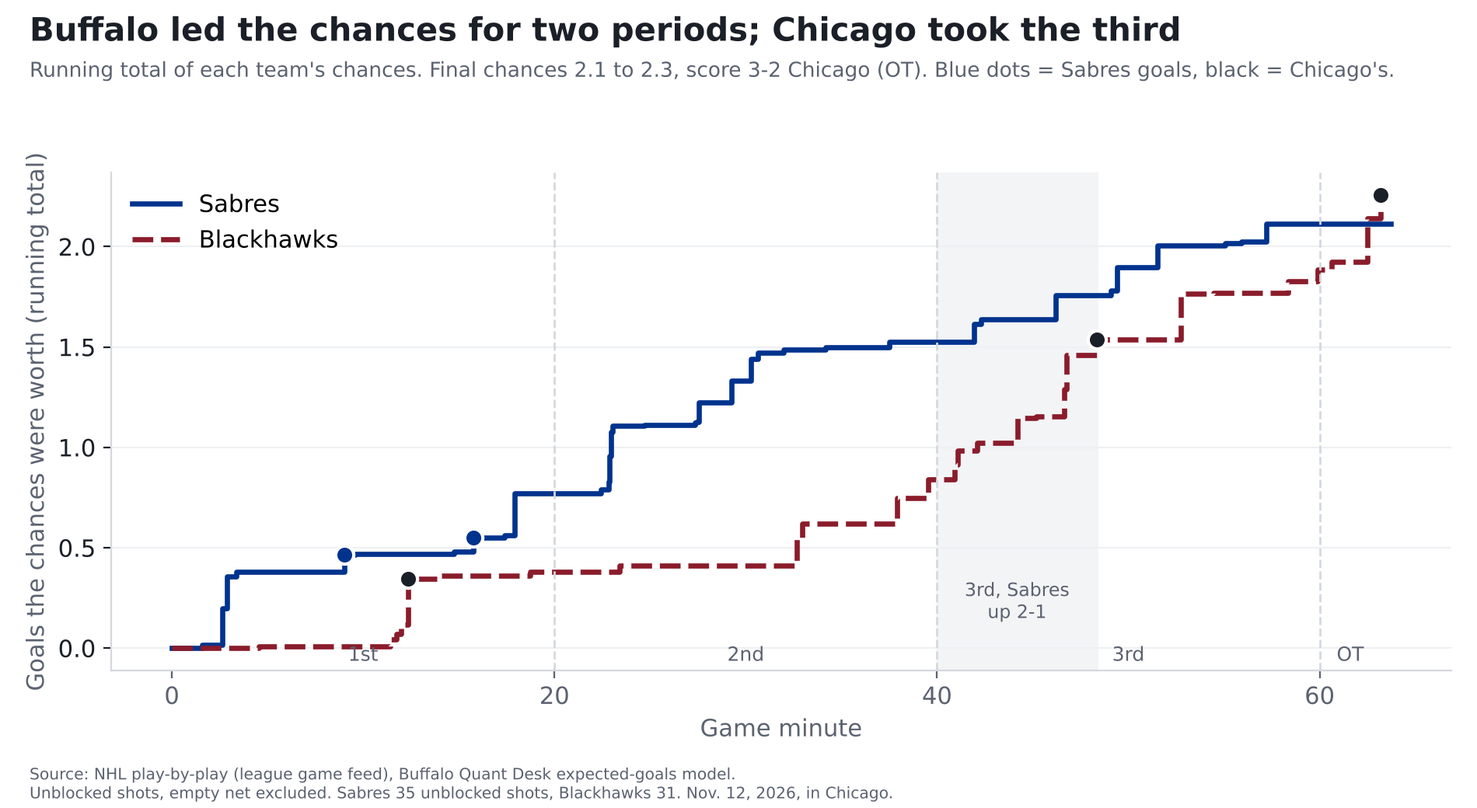
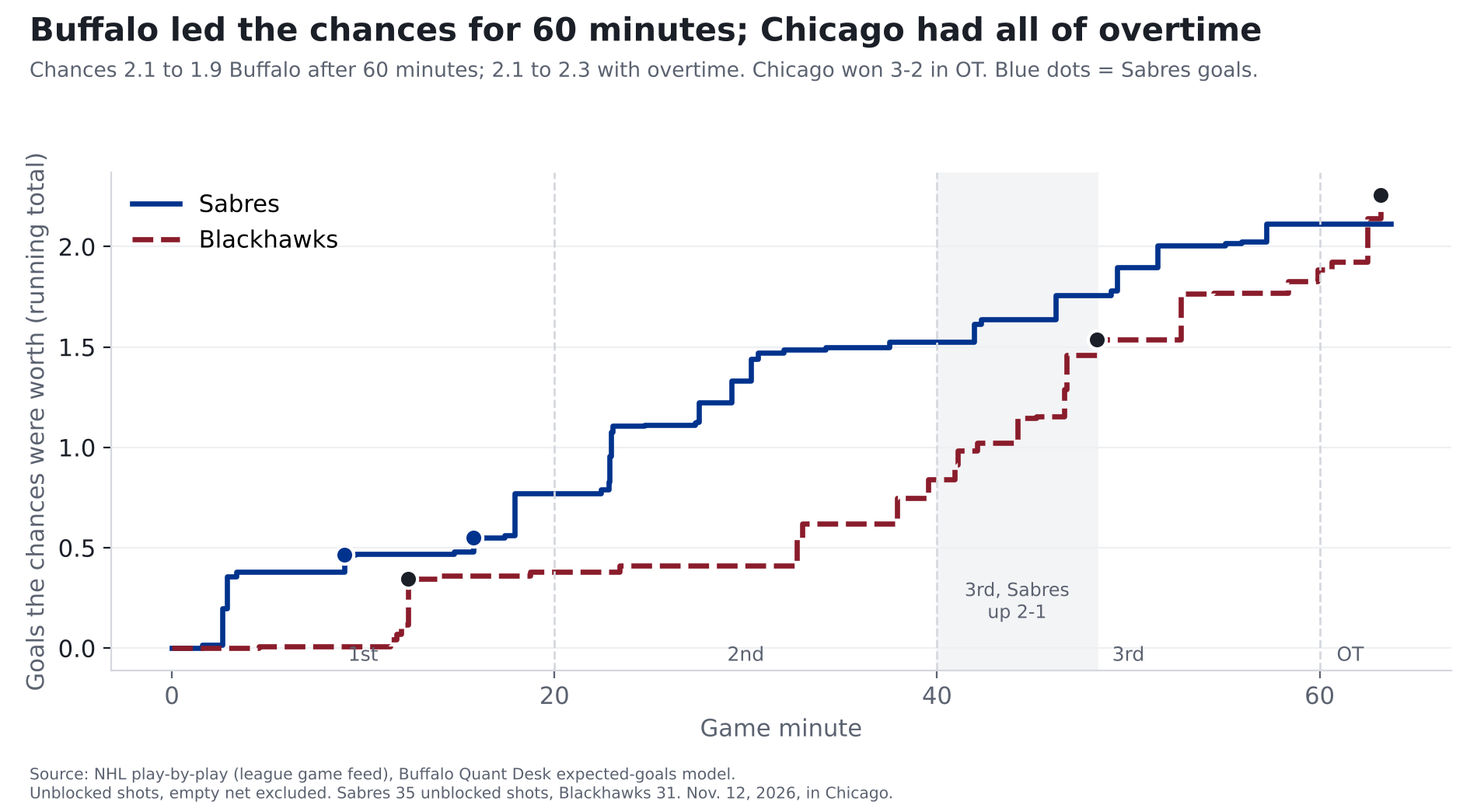
Sabres-Chicago post-game: round-2 review fixes
Claude-Session: https://claude.ai/code/session_01EpbAX7fMNT8LnsxAN6UoCp

Changed region(s): [[0.0311, 0.0, 0.9316, 0.0923]]

diff --git a/src/reports/sabres_postgame_chi.py b/src/reports/sabres_postgame_chi.py
@@ -170,8 +170,8 @@ def main(as_of=AS_OF):
     ax.set_xticks([0, 20, 40, 60], ["0", "20", "40", "60"])
     ax.set_xlabel("Game minute"); ax.set_ylabel("Goals the chances were worth (running total)")
     ax.legend(frameon=False, loc="upper left"); ax.grid(axis="y", color="#EEF0F3"); ax.set_axisbelow(True)
-    finish(fig, "Buffalo led the chances for two periods; Chicago took the third",
-           f"Running total of each team's chances. Final chances {f.xg.sum():.1f} to {a.xg.sum():.1f}, score {them_sc}-{us_sc} Chicago (OT). Blue dots = Sabres goals, black = Chicago's.",
+    finish(fig, "Buffalo led the chances for 60 minutes; Chicago had all of overtime",
+           f"Chances {reg_f:.1f} to {reg_a:.1f} Buffalo after 60 minutes; {f.xg.sum():.1f} to {a.xg.sum():.1f} with overtime. Chicago won {them_sc}-{us_sc} in OT. Blue dots = Sabres goals.",
            f"Unblocked shots, empty net excluded. Sabres {len(f)} unblocked shots, Blackhawks {len(a)}. Nov. 12, 2026, in Chicago.")
     fig.savefig(OUT / "sabres-chi-post-flow.png"); plt.close(fig)
 
@@ -199,10 +199,10 @@ def main(as_of=AS_OF):
         f"{', rebound' if r.rebound else ''}{', power play' if r.strength in ('5v4', '5v3', '4v3') else ''}{', 3-on-3' if r.strength == '3v3' else ''} | {r.xg:.0%} | "
         f"{int(r.us_g + (r.team == US))}-{int(r.them_g + (r.team == THEM))} |" for r in gl.itertuples())
     tie_left = 1200 - int(tie_goal.t) % 1200
-    md = f"""# Blackhawks {them_sc}, Sabres {us_sc} (OT): Buffalo had more of the chances and still lost
+    md = f"""# Blackhawks {them_sc}, Sabres {us_sc} (OT): Buffalo had more of the chances for 60 minutes and still lost
 
 **Finding: Over 60 minutes, the Sabres' chances were worth {reg_f:.1f} goals to Chicago's {reg_a:.1f}, and they led 2-1 into the third. Chicago tied it with
-{clock(tie_left)} left and won {clock(ot_goal.t)} into overtime. That's the pattern from our pregame story: road teams on the second night of a back-to-back lose more
+{clock(tie_left)} left and won {clock(ot_goal.t)} into overtime. That fits the pattern from our pregame story: road teams on the second night of a back-to-back lose more
 often than their chances say. One game can't prove it. Our {PRED_P:.0%} call for a Buffalo win is a miss.**
 
 *One game, Nov. 12, in Chicago, the second night of a back-to-back for Buffalo. [Our pregame story](sabres-blackhawks-pregame-nov-12.html).*
@@ -226,14 +226,15 @@ Shots counted here are the ones that weren't blocked, not counting empty nets.
 
 Our pregame story said to watch the first period, because tired road teams usually start a little behind. Buffalo didn't: it had {buf_share[1]:.0%} of the chances in
 the first and {buf_share[2]:.0%} in the second. In regulation the chances came out {reg_f:.1f} to {reg_a:.1f} Buffalo. Replay those 60 minutes over and over, with each shot going
-in or missing at its own chance, and Buffalo wins {p_win:.0%} of the time and Chicago {p_loss:.0%}; the other {p_tie:.0%}, it's tied after 60. It was tied, and overtime
+in or missing at its own chance, and Buffalo wins {p_win:.0%} of the time and Chicago {p_loss:.0%}; the other {p_tie:.0%}, it's tied after 60. That's what happened: 2-2 after 60, and overtime
 belonged to Chicago: {nper.loc[4, THEM]} shots to none.
 
 ## How we measure "chances"
 
 Every shot has a chance of going in, based on where it was taken and what kind of shot it was. Frank Nazar's first goal, from {gl.iloc[1].dist:.0f} feet, had a
 {gl.iloc[1].xg:.0%} chance; Tage Thompson's power-play goal from {gl.iloc[2].dist:.0f} feet, about {gl.iloc[2].xg:.0%}. Add those chances up over a game and you get what a team's chances
-were worth in goals: all {len(a)} of Chicago's shots were worth {a.xg.sum():.1f}, and Chicago scored {them_sc}. The shot locations come from the NHL's own play-by-play. (The full
+were worth in goals: all {len(a)} of Chicago's shots, overtime included, were worth {a.xg.sum():.1f}, and Chicago scored {them_sc}. In regulation alone it was {reg_f:.1f} for Buffalo,
+{reg_a:.1f} for Chicago; Chicago's last {per.loc[4, THEM]:.1f} came in overtime. The shot locations come from the NHL's own play-by-play. (The full
 explanation is in our story on [last year's 50-win season](sabres-50-win-mirage.html).)
 
 ## The third period
@@ -243,12 +244,12 @@ that weren't blocked, worth {u1f:.1f} goals, and Chicago had {n_u1a}, worth {u1a
 usually gets about {lead1_share:.0%}, since the trailing team pushes. About {st_xg / u1a:.0%} of Chicago's chances in that stretch came on a power play or at 4-on-4.
 
 It's {n_u1f + n_u1a} shots in about eight minutes, and stretches like that swing a lot: across the NHL since 2023-24, about {low_frac:.0%} of teams up a goal in the same
-part of the third got {u1f / (u1f + u1a):.0%} of the chances or less ({n_lead1:,} games). After the tie, the chances were even until overtime.
+part of the third got {u1f / (u1f + u1a):.0%} of the chances or less ({n_lead1:,} teams in that spot). After the tie, the chances were even until overtime.
 
 ## The back-to-back
 
 Our pregame story found that road teams playing the second night in a row, against a rested home team, win less often, without falling far behind in the chances.
-Thursday looked like that: Buffalo had more of the chances in regulation and still lost. One game doesn't confirm it, and we still don't know why it happens.
+Thursday fit that: Buffalo had more of the chances in regulation and still lost. One game doesn't confirm it, and we still don't know why it happens.
 
 It's not that tired teams fade late. Split their chances by period ({ngames['tired']} games since 2023-24, not counting Thursday's), and they're a little behind all game,
 not more in the third:

diff --git a/reports/reviews/2026-11-13-sabres-chi-editor.md b/reports/reviews/2026-11-13-sabres-chi-editor.md
@@ -1,56 +1,45 @@
-# Editor review: 2026-11-13-sabres-chi.md (Blackhawks 3, Sabres 2, OT)
+# Editor re-review: 2026-11-13-sabres-chi.md (sha256 a9ede8f1580a...)
 
-**One-sentence version (radio):** "Buffalo outplayed Chicago for two periods, then sat back on a 2-1 lead in the third, got a quarter of the chances while a team up a goal usually gets about 42%, and lost in overtime."
+**One-sentence version (radio):** "On tired legs, Buffalo had the better of Chicago for 60 minutes, 2.1 to 1.9 in chances, and still lost in overtime, which fits what we've seen from teams on the second night of a back-to-back."
 
-**Verdict: needs edits (FAIL until fixes 1-4 are in).** The lead is right, the headline works, the third-period comparison (25% vs. 42%) is a great radio number, and both charts read in five seconds. Four problems: the story never explains how "chances" are measured (standing rule), the back-to-back follow-up overclaims "not tired legs" and skips the goalie connection the pregame set up, the whole-game paragraph contradicts itself (Chicago had more chances but Buffalo wins more replays), and "did what the numbers said they should" conflicts with the model numbers later in the story.
+**Verdict: needs edits (FAIL). Three small wording fixes, no new numbers.** The rewrite is much better: the new angle fits the pregame, the back-to-back section is honest ("we still don't know why"), the third-period section now says plainly that a stretch like that is ordinary, the chances explanation is there with real examples, the one-decimal tables read cleanly, and the backup-goalie link is made and then properly qualified. My earlier fixes are all in.
 
-## Required edits, most important first
+What's left is one clarity problem that also bears on honesty. The headline says Buffalo "had more of the chances", but the story, the flow chart and the stat-heads section all show Chicago ahead 2.3 to 2.1 once overtime is counted. A fan who reads "Chicago's shots were worth 2.3" or the chart subtitle "Final chances 2.1 to 2.3" will think the headline is wrong. The claim is true only for regulation, so it has to say so everywhere it appears.
 
-### 1. Add the "how we measure chances" explanation (standing rule: show the reasoning every time)
-Both earlier Sabres stories have it. This one has none, though "chances" carries every headline number. Insert after the scorer table and before "Over the whole game it was close to even":
+## Required
 
-> ## How we measure "chances"
->
-> Every shot has a chance of going in, based on where it was taken and what kind of shot it was. Add those up and you get what a team's chances were worth in goals. Thursday shows the range: Frank Nazar's first goal, from 5 feet on the power play, had a 23% chance of going in; Tage Thompson's power-play goal from 29 feet had 7%. Add up all 31 of Chicago's shots that weren't blocked and they were worth 2.3 goals. Chicago scored 3. The shot locations come from the NHL's own play-by-play. (The full explanation, and how we tested it, is in our story on [last year's 50-win season](sabres-50-win-mirage.html).)
+1. **Headline.** Replace
+   `# Blackhawks 3, Sabres 2 (OT): Buffalo had more of the chances and still lost`
+   with
+   `# Blackhawks 3, Sabres 2 (OT): Buffalo had more of the chances for 60 minutes and still lost`
+   (The dek and hero already say "over 60 minutes" / "in regulation", so this brings the headline into line.)
 
-All numbers are already in the story (scorer table, game table). No new computation.
+2. **"How we measure chances" section.** Replace
+   `all 31 of Chicago's shots were worth 2.3, and Chicago scored 3.`
+   with
+   `all 31 of Chicago's shots, overtime included, were worth 2.3, and Chicago scored 3. In regulation alone it was 2.1 for Buffalo, 1.9 for Chicago; Chicago's last 0.4 came in overtime.`
+   (All numbers are already in the story.)
 
-### 2. Make the back-to-back follow-up honest (story body, dek, hero card)
-The pregame said tired road teams *win* less often, that the model misses it, and that **the drop doesn't show up in chances** ("Tired road teams still got about 47% of the chances... Where the drop comes from is less clear"). So "chances by period don't fade late" can't rule out tiredness; it only rules out one version of it (running out of gas in the third). The pregame also pointed at goalies (usual starter in net only 37% of the time on tired nights), and that's exactly what happened: Buffalo's third goalie, first game of the season. The wrap should say so.
+3. **Flow chart subtitle (the chart under the headline).** Replace
+   `Final chances 2.1 to 2.3, score 3-2 Chicago (OT).`
+   with
+   `Chances 2.1 to 1.9 Buffalo after 60 minutes; 2.1 to 2.3 with overtime. Chicago won 3-2 in OT.`
+   Optional title as the takeaway: `Buffalo led the chances for 60 minutes; Chicago had all of overtime`. The current title, "Chicago took the third", is accurate but no longer the story's point.
 
-- Replace `The easy story is that Buffalo ran out of gas on the second night of a back-to-back. The numbers don't back that up.`
-  with `The easy story is that Buffalo ran out of gas on the second night of a back-to-back. The third period doesn't look like that.`
-- Replace `The score explains Thursday's third period better than the schedule does.`
-  with `The score explains Thursday's third period better than the schedule does. That doesn't mean the back-to-back didn't matter. Our pregame story found that tired road teams lose more often without falling much behind in chances, and we still don't know why. One thing it did flag: tired teams often play a backup in goal. Buffalo did.`
-- In "In goal", replace `Alex Lyon started for Buffalo after both of the Sabres' regular goalies played in Wednesday's 8-3 loss to Tampa Bay.`
-  with `Alex Lyon started for Buffalo after both of the Sabres' regular goalies played in Wednesday's 8-3 loss to Tampa Bay. That's the back-to-back at work: in our pregame look, tired road teams had their usual starter in net only 37% of the time.` (37% is from the pregame; Quant to confirm it's fine to repeat.)
-- Dek (`src/site/build.py`, slug sabres-blackhawks-postgame-nov-12): replace `It wasn't the usual tired-legs pattern.`
-  with `It didn't look like the usual back-to-back pattern, which shows up early, not late.`
-- Hero card `explainer.kicker`: replace `"Not the legs"` with `"Not a late fade"`.
-- Hero card bars only show the 1st period, so the title "trail most early, not late" can't be read from them. Replace the explainer `text` and `bars` with
-  `"text": "Tired road teams' share of the chances, since 2023-24:"`, bars `["1st period", 0.457]`, `["3rd period", 0.482]`. (Both numbers are in the stat-heads section.)
+4. **Lead, don't overclaim the pattern.** Regulation ended 2-2 on chances of 2.1 to 1.9, which is about what the chances predicted, and the loss came in overtime. "That's the pattern" is stronger than one coin-flip overtime supports, and a radio host would repeat it as fact. Replace
+   `That's the pattern from our pregame story:`
+   with
+   `That fits the pattern from our pregame story:`
+   ("One game can't prove it" stays.) In "The back-to-back", replace `Thursday looked like that:` with `Thursday fit that:`.
 
-### 3. Fix the whole-game paragraph (reads as a contradiction)
-Replace `Over the whole game it was close to even: Buffalo's chances were worth 2.1 goals, Chicago's 2.3. Replay the 60 minutes over and over,`
-with `Over the whole game it was close to even: Buffalo's chances were worth 2.1 goals, Chicago's 2.3, but Chicago's last 0.4 came in overtime. Over the 60 minutes of regulation, Buffalo had the edge. Replay those 60 minutes over and over,`
-A fan sees "Chicago had more chances" followed by "Buffalo wins 44%, Chicago 35%" and thinks it's a mistake. The overtime 0.37 is in the period table; the writer should state the regulation totals (needs a computed number, about 2.1 to 1.9; writer computes, don't hand-add rounded table values).
+## Should-fix (optional)
 
-### 4. Fix a claim that conflicts with the story's own numbers
-"What it means" says `For two periods they did what the numbers said they should against the league's weakest team at creating chances.` But Receipts says the model expected 3.45 goals' worth of chances for Buffalo and the game came in at 2.1. Buffalo won the share but created far less than expected.
-Replace with `For two periods they had the better of the team that creates the fewest chances in the league, as expected, though both teams created less than our model thought.`
-And give the Receipts sentence a "so what": replace `the game came in well below both, at 2.1 and 2.3.` with `the game came in well below both, at 2.1 and 2.3: a low-chance game, which is part of why one tip-in and one overtime shot could decide it.`
+5. In "How it went", `It was tied, and overtime belonged to Chicago: 3 shots to none.` reads as if "it was tied" refers to the 21%. Replace it with `That's what happened: 2-2 after 60. Overtime belonged to Chicago, 3 shots to none.`
+6. In "What it means", `The third-period stretch is one to watch, not a trend yet.` The story now shows that about 1 in 3 leading teams has a stretch like this, so "one to watch" oversells it a little. Suggest `The third-period stretch was ordinary bad luck-and-pressure, not a trend.` or keep it as is with "not a trend yet". This one is Charlie's call.
+7. Periods chart: readable in five seconds, and the colors are now right (Buffalo blue). With the new angle, though, the general title ("Tired road teams are a little behind all game. They don't fade late") leaves Buffalo's bars, the most striking thing on the chart, unexplained. Optional: `Tired road teams don't fade late, and Buffalo didn't fade from fatigue: it led two periods, then sat on a lead`. Or keep it, since the body explains it.
 
-## Should-fix
+## Checked and fine
 
-5. **Follow up the pregame's "what to watch."** The pregame said: "The first period... If Buffalo's legs are there early, the Sabres should be the team with the puck." They were (67% of first-period chances). That's a satisfying receipt. Add to "Was it tired legs?" after `Buffalo did the opposite: 67% of the chances in the first, 36% in the third.`: `Our pregame said to watch the first period for tired legs. They weren't there.`
-6. **Shorten the lead.** Five sentences in bold is a lot. Replace `The Sabres had the better of Chicago for 40 minutes: their chances were worth 1.5 goals to Chicago's 0.8, and they led 2-1 going into the third. Then Chicago took over.` with `The Sabres had the better of Chicago for 40 minutes, with chances worth 1.5 goals to Chicago's 0.8, and led 2-1. Then they sat on the lead.` (Drop "Finding:" label? Keep for consistency with the TBL wrap; Charlie's call.)
-7. **Two-decimal numbers look like stats.** The period table (0.77, 0.38...), "worth 0.23 goals ... 0.69", and "(0.36 to 0.35)" read like a spreadsheet. Suggest one decimal in the body (0.8, 0.4, ...; "0.2 goals ... 0.7"), as the TBL wrap does; keep two decimals in stat-heads. Writer reruns so rounding comes from code. "0.36 to 0.35" can simply become "about even".
-8. **"Scored the usual way (the gap between our chance and what happened, squared; lower is better), it comes to 0.32"** is fine and matches the prior wrap. Keep.
-
-## Charts
-
-- **Flow chart:** reads in five seconds, title is the takeaway, shaded "3rd, Sabres up 2-1" band is excellent. One fix: Sabres goals are *red* dots while the Blackhawks line is dark red, so a fan links red dots to Chicago. Make Sabres goal dots blue (match the Sabres line) and Chicago's black, and change the subtitle to "Dots = goals, in each team's color."
-- **Periods chart:** title is the takeaway and works. Minor: Buffalo is red and "tired road teams" is Bills/Sabres blue; swap so the Sabres bar is blue and tired road teams another color (e.g. dark gray), since fans read blue as Buffalo. If fix 2 is applied, consider softening the title to "Tired road teams don't fade late. Buffalo did" (same meaning, matches the new body).
-
-## Fine as is
-Headline; scorer table (great plain "chance it went in" column); "It's 11 shots in about eight minutes, so it's one stretch of one game, not a trend"; goalie section length; Receipts owning the miss and not hiding behind the back-to-back warning ("the 57% is what we logged and what gets graded"). No jargon in the body; "3-on-3", "power play", "tip-in" are fine for hockey readers. Length is right.
+- Hero: label "Chances in regulation, in goals" (2.1 vs 1.9), the note, kicker "The back-to-back", and bars 38% vs 47% match the pregame's 38%/47%. Title "lose more often than their chances say" is the pregame finding. Clear.
+- Dek: "more of the chances over 60 minutes ... the pattern our pregame flagged". Fine. If fix 4 is applied, consider "the pattern our pregame flagged" → "fitting the pattern our pregame flagged", but it's acceptable as is.
+- No jargon in the body. "4-on-4", "3-on-3" and "power play" are fine for hockey readers. Receipts owns the miss. Length and flow are good.

diff --git a/reports/reviews/2026-11-13-sabres-chi-quant.md b/reports/reviews/2026-11-13-sabres-chi-quant.md
@@ -1,69 +1,52 @@
-# Quant review: reports/2026-11-13-sabres-chi.md (CHI 3, BUF 2 OT, Nov 12, 2026)
+# Quant re-check: reports/2026-11-13-sabres-chi.md (sha256 a9ede8f1580a...)
 
-**Verdict: FAIL (publish with fixes).** The game numbers are all correct. The lede's league comparison (42%) is not like-for-like, and the tired-legs section overstates what a by-period split can show.
+**Verdict: FAIL. Two small fixes are needed, then it passes.** All five stage-2 fixes landed correctly. The rewrite introduced one factual error, in the headline.
 
-Scratch code (read-only DB, rescaled per season, factor 2026-27 = 0.9922): /tmp/qchk/a.py, b.py, c.py, d.py.
+## Required fixes
 
-## Required fixes, most important first
+1. **The headline is false for the full game.** It reads "Buffalo had more of the chances and still lost", but over the full game Chicago had more: 2.26 to 2.11, counting overtime.
+   The story itself says so in three places:
+   - the flow chart subtitle ("Final chances 2.1 to 2.3")
+   - "How we measure" ("all 31 of Chicago's shots were worth 2.3")
+   - the stat-heads section (CHI 2.26)
 
-1. **"teams up a goal in the third usually get 42%" (Finding, The third period, hero note context, dek wording "with the lead").**
-   0.417 (2,841 games) reproduces exactly, but it pools the whole third, including late extra-attacker time when the trailing team pulls its goalie.
-   Those 6-on-5 shots count for the trailing team, and the leader's empty-net shots are dropped. Buffalo's stretch (40:00 to 48:22) had no pulled goalie.
-   Like-for-like numbers:
-   - Up one, 3rd period, excluding 6vX: **0.460**
-   - Up one, first 8:22 of the 3rd (the same window as Buffalo's): **0.467**
-   - Up one, 5v5 only, first 8:22: 0.470
+   The hero and dek both say "over 60 minutes" and are fine.
+   Fix: "Buffalo had more of the chances in regulation and still lost" (or "over 60 minutes").
 
-   Fix: compare to about 47% ("teams up a goal early in the third usually get about 47%"), and define it in the stat-heads section.
+2. **"(2,319 games)" in the third-period section.** 2,319 is the number of times a team led by one in that window. Those come from **2,250 games**; a game can count twice when each team leads at different points. The stat-heads label ("2,319 game-leaders") is correct.
+   Fix the body: "(2,250 games)", or "2,319 teams in that spot".
 
-2. **"Buffalo sat back further than that" / headline "sat on a lead it couldn't keep": overclaim.**
-   - Part of Chicago's 0.69 came on special teams. Chicago 5v4: 0.14 (2 shots). 4v4: 0.12 (1 shot). Chicago 5v5: 0.43 (4 shots, including the tying goal).
-   - At 5v5, Buffalo's share in the stretch was **35%**, not 25%.
-   - Per game, 30.5% of teams leading by one in the first 8:22 of the 3rd got 25% or less in that window (2,251 games; median 46%). So 25% is ordinary for one stretch.
+## Stage-2 fixes: all landed
 
-   Fix: mention the Chicago power play at the start of the third. Drop "sat back further than that" and "sat on", or soften them to "got out-chanced". Keep the existing one-stretch caveat.
-   (Don't publish a penalty count; the CLAUDE.md caveat on penalty attribution applies. Strength states from situationCode are fine to cite.)
+- **League comparison.** Leader's share in the first 8:22 of the third, pulled-goalie strengths excluded: 0.4670, which matches "about 47%". Per leader: 2,319, with 31.52% at 25% or less, which matches "about 32%".
+- **Power play and 4-on-4.** 0.264 of Chicago's 0.693 is 38%. Buffalo's 3 shots were all 5-on-5, so its 5-on-5 share is 0.35. Matches.
+- **"Sat on" and "sat back further" are gone.** "One to watch, not a trend yet" is appropriately hedged.
+- **Tired-legs section.** "A little behind all game, not more in the third" matches 0.457/0.470/0.482 vs 0.478/0.485/0.488.
+  - The resampling ranges match mine within resampling noise (mine: P2 -3.0 to -0.1, P3 -2.0 to +0.9).
+  - The score-adjustment caveat is present.
+  - The chart title now reads "a little behind all game. They don't fade late". I looked at it and it's correct.
+- **The model comparison is now 60 minutes to 60 minutes.**
+  - The model's 3.45 and 2.97 vs regulation chances of 2.115 and 1.886, with a 2-2 score.
+  - "The edge went the way it expected" checks out (Buffalo ahead in both).
+  - The stat-heads section labels 3.45/2.97 as expected goals.
+- **Dallas is cut.**
 
-3. **Tired-legs section.** These numbers reproduce: tired P1/P2/P3 0.457/0.470/0.482, rested 0.478/0.485/0.488, 644 / 3,107 games. Three of its claims go beyond them:
-   - **"by the third they've nearly caught up" is largely a score effect.** Tired road teams trail more in the third: 49% of their third-period shots come while trailing, vs 43% for rested teams. Trailing teams get more of the chances.
-     Counting tied-score shots only: tired 0.442/0.474/0.462, rested 0.478/0.490/0.486. In the third the gap is still 2.3 pts (bootstrap 95% CI -5.6 to +1.0, 275 games), about the same as the first period's.
-     Fix: drop "nearly caught up". "They don't fade late" is supported (no drop in the third even at tied scores), so keep it.
-   - **"furthest behind in the first period" (body, chart title, hero kicker/title "trail most early, not late") is noise-level.**
-     Game-level bootstrap gaps (tired minus rested): P1 -2.1 pts (CI -3.4 to -0.7), P2 -1.5 (CI -3.0 to -0.1), P3 -0.6 (CI -2.0 to +0.9). P1 and P2 can't be told apart.
-     Fix: "Tired road teams are a little behind all game; they don't fade late." Retitle the chart and the hero explainer to match. The P1 bars can stay as the example.
-   - **"The score explains Thursday's third period better than the schedule does" isn't supported.** Score effects take an early-third leader from about 50% to about 47%. Neither score nor schedule explains 25%; a Chicago power play plus one-stretch noise does more.
-     Fix: "Neither the schedule nor the score explains much of it: part was a Chicago power play, and the rest is one stretch of one game."
+## New content checked
 
-4. **"The model expected chances worth 3.45 goals for Buffalo and 2.97 for Chicago; the game came in well below both, at 2.1 and 2.3."**
-   The 3.45/2.97 match P0010's notes. But they are the model's *expected goals* (the pregame story says "expects about 3.5 goals"; goals = -0.254 + 1.032 x expected + 0.272 x home, on the unrescaled scale). They are not chance values.
-   The 2.1/2.3 also include overtime (Chicago 0.37), while the model forecasts 60 minutes.
-   Fix: "The model expected about 3.5 goals for Buffalo and 3.0 for Chicago. Through 60 minutes the chances were worth 2.1 and 1.9, and the score was 2-2." (Regulation chances: BUF 2.115, CHI 1.886.) Or drop the comparison.
-
-5. **"Next up: Saturday at Dallas."** No query supports it; raw_nhl_games ends 2026-11-12. Verify it from a committed source or cut it.
-
-## Verified (all match)
-
-- **Per period** (xG, unblocked non-empty-net shots):
-
-  | Period | BUF | CHI |
-  |---|---|---|
-  | 1st | 0.771 (10) | 0.380 (8) |
-  | 2nd | 0.756 (16) | 0.462 (7) |
-  | 3rd | 0.588 (9) | 1.044 (13) |
-  | OT | 0 (0) | 0.370 (3) |
-  | Game | 2.115 (35, 23 on goal) | 2.256 (31, 25 on goal) |
-
-  No empty-net shots in the game.
-- **Through two periods:** 1.527 vs 0.842, so the hero's 1.5 / 0.8 is correct.
-- **Goals:** Power 9:00 slap 36 ft 5v5 8.8%; Nazar 12:22 wrist 5 ft 5v4 22.9%; Thompson 15:46 wrist 29 ft 5v4 6.7%; Nazar 3rd 8:22 tip-in 16 ft 5v5 7.7%; Donato OT 3:12 wrist 32 ft 3v3 11.5%. Scores are correct.
-- **Clock:** "11:38 left" is correct. Final CHI 3-2 OT (raw_nhl_games, OFF).
-- **Lead stretch:** BUF 3 shots, 0.231; CHI 8 shots, 0.693, which includes the tying shot at 48:22 (taken while trailing, so its inclusion is defensible). That makes 25%.
-- **After the tie in the 3rd:** 0.357 vs 0.351. OT: Chicago 3 shots.
-- **Replays** (exact Poisson-binomial, plus a 200k Monte Carlo check): win 0.438, tie 0.215, loss 0.347. Rounds to 44/21/35.
-- **Road share by period:** Buffalo 67% in the 1st, 62% in the 2nd, 36% in the 3rd. BUF rest = 1 day, CHI rest = 5.
-- **Goalies:** Lyon (8479312) faced 2.256 xG, allowed 3, -0.74 (25 on goal); his only 2026-27 roster appearance is this game. Knight 21 of 23, +0.115.
-  Luukkonen and Ellis both played vs TBL on Nov 11 (TBL 8, BUF 3); this season they have 12 and 8 games.
-- **Chicago creates the fewest chances:** 2.22 xGF per game this season, lowest in the league.
-- **Ledger:** P0010 p 0.57, outcome 0, Brier 0.3249, so 0.32 is correct. The 7 of 10 record reproduces (P0001-P0010, NFL and NHL combined, hits at p >= 0.5).
-  Story wording matches the logger claim. Model nhl-game-v0.1. No betting language found.
-- **Charts:** both looked at. Labels are clean, and footers carry source and sample size. The periods chart title carries issue 3.
+- **Regulation chances** 2.11 to 1.89. Through two periods 1.53 to 0.84.
+- **Period table** (rounded): 0.8/0.4, 0.8/0.5, 0.6/1.0, 0.0/0.4. Correct.
+- **Buffalo's first and second periods:** 67% and 62%. Correct.
+- **"Tired road teams usually start a little behind"** matches 0.457 in the first period. "Overtime 3 shots to none" is correct.
+- **Hero bars 0.383 / 0.468.**
+  - Through Nov 12, Thursday excluded: 644 games, 0.3835; 3,107 games, 0.4680.
+  - The pregame's numbers (through Nov 11): 643 games, 0.3826; 3,099 games, 0.4676.
+  - Both render as 38.3% and 46.8% (the build uses one decimal for pct), so they are consistent with the pregame story.
+- **Goalie paragraph.** The 37% usual-starter and 0.06-goal figures match the pregame text (lines 57-58; its notes give GSAx per game -0.059).
+  "Third goalie" is correct: Buffalo's 2026-27 starts are Luukkonen 12, Ellis 8, Lyon 1.
+- **"Lose more often than their chances say."** This is a fair paraphrase of the pregame finding.
+  - Tired road teams still get 47.0% of the chances (rested 48.4%), and their goal share is close to that (46.3%, rested 48.6%).
+  - But they win 38% vs 47%.
+  - The story hedges it ("One game can't prove it").
+- **Unchanged items still correct:** the goal table, 11:38, the 44/21/35 replays, Lyon -0.74 and Knight +0.11, Brier 0.32, 7 of 10.
+- **Brand rules:** no betting language. Stat terms appear only in the stat-heads section.
+- **Charts:** both looked at. The flow chart's goal dots are now Bills blue, and the footers are intact.

diff --git a/reports/2026-11-13-sabres-chi.md b/reports/2026-11-13-sabres-chi.md
@@ -1,7 +1,7 @@
-# Blackhawks 3, Sabres 2 (OT): Buffalo had more of the chances and still lost
+# Blackhawks 3, Sabres 2 (OT): Buffalo had more of the chances for 60 minutes and still lost
 
 **Finding: Over 60 minutes, the Sabres' chances were worth 2.1 goals to Chicago's 1.9, and they led 2-1 into the third. Chicago tied it with
-11:38 left and won 3:12 into overtime. That's the pattern from our pregame story: road teams on the second night of a back-to-back lose more
+11:38 left and won 3:12 into overtime. That fits the pattern from our pregame story: road teams on the second night of a back-to-back lose more
 often than their chances say. One game can't prove it. Our 57% call for a Buffalo win is a miss.**
 
 *One game, Nov. 12, in Chicago, the second night of a back-to-back for Buffalo. [Our pregame story](sabres-blackhawks-pregame-nov-12.html).*
@@ -29,14 +29,15 @@ Shots counted here are the ones that weren't blocked, not counting empty nets.
 
 Our pregame story said to watch the first period, because tired road teams usually start a little behind. Buffalo didn't: it had 67% of the chances in
 the first and 62% in the second. In regulation the chances came out 2.1 to 1.9 Buffalo. Replay those 60 minutes over and over, with each shot going
-in or missing at its own chance, and Buffalo wins 44% of the time and Chicago 35%; the other 21%, it's tied after 60. It was tied, and overtime
+in or missing at its own chance, and Buffalo wins 44% of the time and Chicago 35%; the other 21%, it's tied after 60. That's what happened: 2-2 after 60, and overtime
 belonged to Chicago: 3 shots to none.
 
 ## How we measure "chances"
 
 Every shot has a chance of going in, based on where it was taken and what kind of shot it was. Frank Nazar's first goal, from 5 feet, had a
 23% chance; Tage Thompson's power-play goal from 29 feet, about 7%. Add those chances up over a game and you get what a team's chances
-were worth in goals: all 31 of Chicago's shots were worth 2.3, and Chicago scored 3. The shot locations come from the NHL's own play-by-play. (The full
+were worth in goals: all 31 of Chicago's shots, overtime included, were worth 2.3, and Chicago scored 3. In regulation alone it was 2.1 for Buffalo,
+1.9 for Chicago; Chicago's last 0.4 came in overtime. The shot locations come from the NHL's own play-by-play. (The full
 explanation is in our story on [last year's 50-win season](sabres-50-win-mirage.html).)
 
 ## The third period
@@ -46,12 +47,12 @@ that weren't blocked, worth 0.2 goals, and Chicago had 8, worth 0.7: **25% of th
 usually gets about 47%, since the trailing team pushes. About 38% of Chicago's chances in that stretch came on a power play or at 4-on-4.
 
 It's 11 shots in about eight minutes, and stretches like that swing a lot: across the NHL since 2023-24, about 32% of teams up a goal in the same
-part of the third got 25% of the chances or less (2,319 games). After the tie, the chances were even until overtime.
+part of the third got 25% of the chances or less (2,319 teams in that spot). After the tie, the chances were even until overtime.
 
 ## The back-to-back
 
 Our pregame story found that road teams playing the second night in a row, against a rested home team, win less often, without falling far behind in the chances.
-Thursday looked like that: Buffalo had more of the chances in regulation and still lost. One game doesn't confirm it, and we still don't know why it happens.
+Thursday fit that: Buffalo had more of the chances in regulation and still lost. One game doesn't confirm it, and we still don't know why it happens.
 
 It's not that tired teams fade late. Split their chances by period (644 games since 2023-24, not counting Thursday's), and they're a little behind all game,
 not more in the third:
